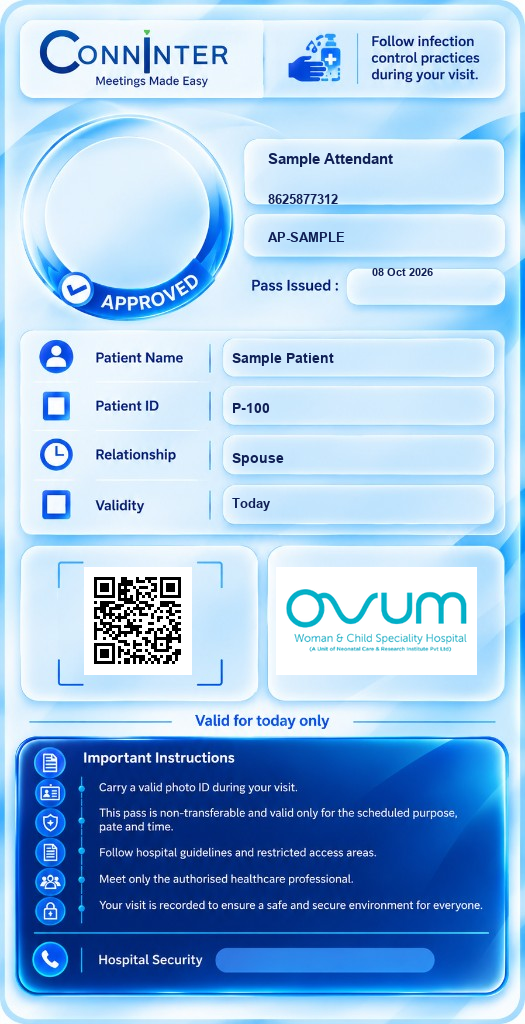
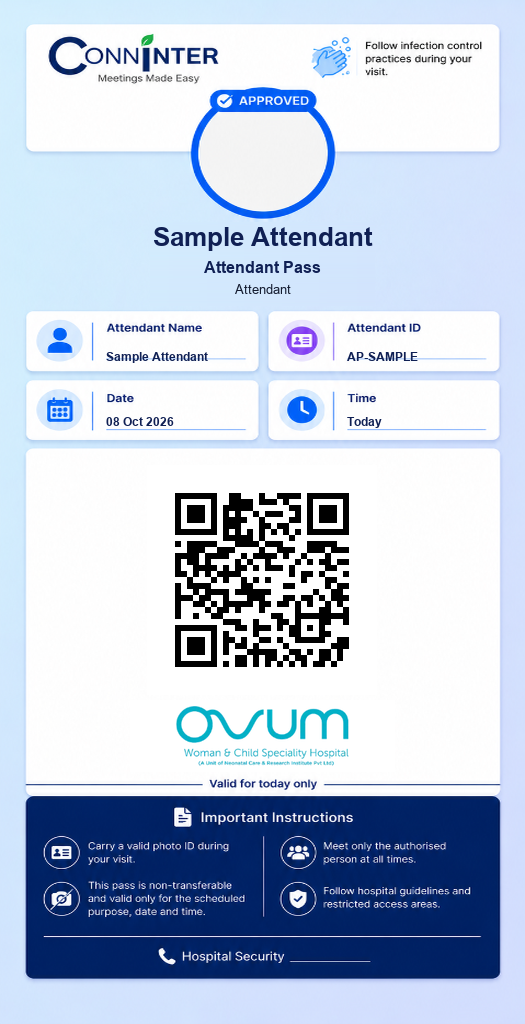
feat(passes): rebuild delivery and attendant passes on flat artwork
Match the new visitor-pass design: centred photo ring, name/title stack, box values on the printed underlines, large centred QR with the hospital logo below it. Centre-text now shrinks long names instead of spilling off the canvas; delivery bounds test updated for new layout.

Generated with [Devin](https://devin.ai)

diff --git a/python_backend/app/services/delivery_pass_image.py b/python_backend/app/services/delivery_pass_image.py
@@ -20,39 +20,34 @@ from app.services.meeting_pass_image import (
     _BLUE,
     _NAVY,
     _BLACK,
+    _center_text,
     _fit_text,
     _paste_circle,
+    _paste_logo,
     _qr_module_image,
     hospital_logo_bytes,
-    paste_aligned_qr_and_logo,
+    paste_crisp_qr,
 )
 
 BLANK_PASS_PATH = Path(__file__).resolve().parents[1] / "assets" / "delivery_pass_blank.png"
 
-# Coordinates match delivery_pass_blank.png at 525x1024.
-# The approved ring's open center. Kept clear of the APPROVED badge.
-_PHOTO_CENTER = (132, 242)
-_PHOTO_RADIUS = 76
-_NAME_X = 272
-_NAME_WIDTH = 210
-# The blue rule is at y=258. The first white bar is just under it (y=268-306)
-# and the second white bar is y=312-348.
-_NAME_Y = 278
-_ROLE_Y = 314
-_COMPANY_Y = 326
-_PASS_Y = 337
-# Values sit under each printed underline and stop before the card edge.
-_LEFT_VALUE = (100, 142)
-_RIGHT_VALUE = (352, 140)
-_VALUE_ROWS = (400, 480, 561)
-# Open band between the Date/Time cards (bottom ~y=586) and the
-# "Valid for today only" line (~y=700). The QR is centered under the left column.
-_QR_TOP = 589
-_QR_SIZE = 108
-_QR_LEFT = 140 - _QR_SIZE // 2
-_DIVIDER_X = 262
-_LOGO_RIGHT = 494
-_LABEL_BLUE = (0, 102, 204)
+# Coordinates match delivery_pass_blank.png at 525x1024 (flat centred design).
+_PHOTO_CENTER = (263, 152)
+_PHOTO_RADIUS = 56
+# Centred identity lines under the photo ring.
+_NAME_Y = 222
+_ROLE_Y = 254
+_COMPANY_Y = 276
+_PASS_Y = 296
+# Values sit above the printed underlines inside each box (lines at y=371/426/486).
+_LEFT_VALUE = (104, 142)
+_RIGHT_VALUE = (344, 142)
+_VALUE_ROWS = (350, 405, 465)
+# Open white band (~y506-783) above "Valid for today only".
+# Big QR centred first; the hospital logo sits below it.
+_QR_TOP = 512
+_QR_SIZE = 230
+_LOGO_BOX = (130, 747, 395, 782)
 _SIZE_ABBREV = {
     "SMALL": "S",
     "MEDIUM": "M",
@@ -77,15 +72,6 @@ class DeliveryPassContent:
     qr_png: bytes | None = None
     photo_png: bytes | None = None
     logo_png: bytes | None = None
-
-
-def _cover_label(base: Image.Image, box: tuple[int, int, int, int]) -> None:
-    """Hide a printed visitor label so the delivery label can replace it."""
-    sample = base.getpixel((box[2] + 8, box[1] + 4))
-    if not isinstance(sample, tuple):
-        return
-    fill = sample[:3]
-    ImageDraw.Draw(base).rectangle(box, fill=fill)
 
 
 def item_line(delivery, items: list) -> str:
@@ -297,53 +283,33 @@ def render_delivery_pass(content: DeliveryPassContent, *, scale: int = 1) -> byt
             pass
 
     draw = ImageDraw.Draw(base)
-    # The artwork says Visiting / Department. This pass is a delivery.
-    _cover_label(base, (92, 366, 210, 392))
-    _cover_label(base, (348, 366, 460, 392))
-    _fit_text(draw, (100, 372), "Delivery To", max_width=140, size=12, fill=_LABEL_BLUE, bold=True)
-    _fit_text(draw, (352, 372), "PO No.", max_width=100, size=12, fill=_LABEL_BLUE, bold=True)
 
-    _fit_text(draw, (_NAME_X, _NAME_Y), content.driver_name, max_width=_NAME_WIDTH, size=15, fill=_NAVY)
-    _fit_text(draw, (_NAME_X, _ROLE_Y), "Delivery Partner", max_width=_NAME_WIDTH, size=11, fill=_BLACK)
-    _fit_text(draw, (_NAME_X, _COMPANY_Y), content.company_name, max_width=_NAME_WIDTH, size=10, fill=_BLUE)
-    _fit_text(draw, (_NAME_X, _PASS_Y), "Delivery Pass", max_width=_NAME_WIDTH, size=10, fill=_BLUE)
+    _center_text(draw, _NAME_Y, content.driver_name, size=26, fill=_NAVY)
+    _center_text(draw, _ROLE_Y, "Delivery Partner", size=16, fill=_NAVY)
+    _center_text(draw, _COMPANY_Y, content.company_name, size=13, fill=_BLACK, bold=False)
+    _center_text(draw, _PASS_Y, "Delivery Pass", size=13, fill=_BLUE, bold=False)
 
     left_x, left_width = _LEFT_VALUE
     right_x, right_width = _RIGHT_VALUE
-    row_deliver, row_item, row_date = _VALUE_ROWS
-    _fit_text(draw, (left_x, row_deliver), content.deliver_to, max_width=left_width, size=13, fill=_NAVY)
-    _fit_text(draw, (right_x, row_deliver), content.po_number, max_width=right_width, size=13, fill=_NAVY)
+    row_partner, row_item, row_date = _VALUE_ROWS
+    _fit_text(draw, (left_x, row_partner), content.driver_name, max_width=left_width, size=12, fill=_NAVY)
+    _fit_text(draw, (right_x, row_partner), content.po_number, max_width=right_width, size=12, fill=_NAVY)
     _fit_text(draw, (left_x, row_item), content.item_text, max_width=left_width, size=12, fill=_NAVY)
     _fit_text(draw, (right_x, row_item), content.vehicle_text, max_width=right_width, size=12, fill=_NAVY)
     _fit_text(draw, (left_x, row_date), content.date_text, max_width=left_width, size=12, fill=_NAVY)
     _fit_text(draw, (right_x, row_date), content.time_text, max_width=right_width, size=12, fill=_NAVY)
 
-    logo_left = _DIVIDER_X + 18
-    logo_right = _LOGO_RIGHT
     if content.logo_png or content.qr_png:
         try:
-            paste_aligned_qr_and_logo(
-                base,
-                qr_png=content.qr_png,
-                logo_png=content.logo_png,
-                qr_left=_QR_LEFT,
-                row_top=_QR_TOP,
-                side=_QR_SIZE,
-                logo_left=logo_left,
-                logo_right=logo_right,
-            )
+            if content.qr_png:
+                qr_left = (_BASE_WIDTH - _QR_SIZE) // 2
+                paste_crisp_qr(base, content.qr_png, qr_left, _QR_TOP, _QR_SIZE)
+            if content.logo_png:
+                _paste_logo(base, content.logo_png, _LOGO_BOX, plate=True, pad=2)
         except Exception:
             pass
     elif content.hospital_name:
-        _fit_text(
-            draw,
-            (logo_left, _QR_TOP + 28),
-            content.hospital_name,
-            max_width=logo_right - logo_left - 8,
-            size=13,
-            fill=_NAVY,
-            bold=True,
-        )
+        _center_text(draw, _LOGO_BOX[1] + 6, content.hospital_name, size=13, fill=_NAVY)
 
     output_scale = scale if scale > 1 else 1
     if output_scale > 1:
@@ -354,16 +320,23 @@ def render_delivery_pass(content: DeliveryPassContent, *, scale: int = 1) -> byt
         # Re-paint QR + logo after enlarge so modules stay sharp and stay aligned.
         if content.logo_png or content.qr_png:
             try:
-                paste_aligned_qr_and_logo(
-                    base,
-                    qr_png=content.qr_png,
-                    logo_png=content.logo_png,
-                    qr_left=_QR_LEFT * output_scale,
-                    row_top=_QR_TOP * output_scale,
-                    side=_QR_SIZE * output_scale,
-                    logo_left=logo_left * output_scale,
-                    logo_right=logo_right * output_scale,
-                )
+                if content.qr_png:
+                    qr_left = (base.width - _QR_SIZE * output_scale) // 2
+                    paste_crisp_qr(
+                        base,
+                        content.qr_png,
+                        qr_left,
+                        _QR_TOP * output_scale,
+                        _QR_SIZE * output_scale,
+                    )
+                if content.logo_png:
+                    _paste_logo(
+                        base,
+                        content.logo_png,
+                        tuple(v * output_scale for v in _LOGO_BOX),
+                        plate=True,
+                        pad=2 * output_scale,
+                    )
             except Exception:
                 pass
 

diff --git a/python_backend/app/services/attendant_pass_image.py b/python_backend/app/services/attendant_pass_image.py
@@ -9,43 +9,40 @@ from pathlib import Path
 from PIL import Image, ImageDraw
 
 from app.services.meeting_pass_image import (
+    _BLUE,
+    _NAVY as _MEETING_NAVY,
+    _BLACK,
+    _center_text,
     _fit_text,
     _paste_circle,
-    paste_aligned_qr_and_logo,
+    _paste_logo,
+    paste_crisp_qr,
 )
 
 BLANK_PASS_PATH = Path(__file__).resolve().parents[1] / "assets" / "attendant_pass_blank.png"
 
-# Coordinates match attendant_pass_blank.png at 525x1024.
+# Coordinates match attendant_pass_blank.png at 525x1024 (flat centred design).
 _BASE_WIDTH = 525
 _BASE_HEIGHT = 1024
-_PHOTO_CENTER = (128, 198)
-_PHOTO_RADIUS = 62
-_BAR_X = 268
-_BAR_WIDTH = 214
-_BAR_YS = (150, 192, 230)
-_ISSUED_X = 372
-_ISSUED_Y = 266
-_ISSUED_WIDTH = 112
-_VALUE_X = 232
-_VALUE_WIDTH = 252
-_VALUE_YS = (350, 400, 450, 496)
-# Outer corner-bracket frame on the blank artwork.
-# Inner edge of the printed corner brackets; both panels span y 545-697.
-_QR_FRAME = (57, 560, 219, 682)
-_QR_SIZE = 108
-# Same top/height as the QR square, centred in the right panel (x 261-492).
-_LOGO_LEFT = 276
-_LOGO_RIGHT = 477
-_PHONE_X = 262
-_PHONE_Y = 952
-_PHONE_WIDTH = 210
-_NAVY = (16, 32, 84)
-
-
-def _centered_origin(frame: tuple[int, int, int, int], size: int) -> tuple[int, int]:
-    left, top, right, bottom = frame
-    return left + (right - left - size) // 2, top + (bottom - top - size) // 2
+_PHOTO_CENTER = (263, 152)
+_PHOTO_RADIUS = 56
+# Centred identity lines under the photo ring.
+_NAME_Y = 222
+_TITLE_Y = 258
+_ROLE_Y = 282
+# Values sit above the printed underlines inside each box.
+_LEFT_VALUE = (106, 139)
+_RIGHT_VALUE = (347, 138)
+_ROW1_Y = 350
+_ROW2_Y = 415
+# Open white band (~y450-783) above "Valid for today only".
+_QR_TOP = 465
+_QR_SIZE = 230
+_LOGO_BOX = (130, 700, 395, 772)
+_PHONE_X = 330
+_PHONE_Y = 950
+_PHONE_WIDTH = 130
+_NAVY = _MEETING_NAVY
 
 
 @dataclass
@@ -80,26 +77,28 @@ def render_attendant_pass(content: AttendantPassContent, *, scale: int = 1) -> b
             pass
 
     draw = ImageDraw.Draw(base)
-    _fit_text(draw, (_BAR_X, _BAR_YS[0]), content.attendant_name, max_width=_BAR_WIDTH, size=15, fill=_NAVY)
-    _fit_text(draw, (_BAR_X, _BAR_YS[1]), content.attendant_phone, max_width=_BAR_WIDTH, size=13, fill=_NAVY)
-    _fit_text(draw, (_BAR_X, _BAR_YS[2]), content.pass_number, max_width=_BAR_WIDTH, size=13, fill=_NAVY)
-    _fit_text(draw, (_ISSUED_X, _ISSUED_Y), content.issued_on, max_width=_ISSUED_WIDTH, size=11, fill=_NAVY)
-    _fit_text(draw, (_VALUE_X, _VALUE_YS[0]), content.patient_name, max_width=_VALUE_WIDTH, size=14, fill=_NAVY)
-    _fit_text(draw, (_VALUE_X, _VALUE_YS[1]), content.patient_id, max_width=_VALUE_WIDTH, size=14, fill=_NAVY)
-    _fit_text(draw, (_VALUE_X, _VALUE_YS[2]), content.relationship, max_width=_VALUE_WIDTH, size=14, fill=_NAVY)
-    _fit_text(draw, (_VALUE_X, _VALUE_YS[3]), content.validity, max_width=_VALUE_WIDTH, size=13, fill=_NAVY)
 
-    qr_left, qr_top = _centered_origin(_QR_FRAME, _QR_SIZE)
+    _center_text(draw, _NAME_Y, content.attendant_name, size=26, fill=_NAVY)
+    _center_text(draw, _TITLE_Y, "Attendant Pass", size=16, fill=_NAVY)
+    _center_text(draw, _ROLE_Y, "Attendant", size=13, fill=_BLACK, bold=False)
 
-    if not content.logo_png and content.hospital_name:
-        _fit_text(
-            draw,
-            (_LOGO_LEFT, qr_top + 48),
-            content.hospital_name,
-            max_width=_LOGO_RIGHT - _LOGO_LEFT - 8,
-            size=14,
-            fill=_NAVY,
-        )
+    left_x, left_width = _LEFT_VALUE
+    right_x, right_width = _RIGHT_VALUE
+    _fit_text(draw, (left_x, _ROW1_Y), content.attendant_name, max_width=left_width, size=12, fill=_NAVY)
+    _fit_text(draw, (right_x, _ROW1_Y), content.pass_number, max_width=right_width, size=12, fill=_NAVY)
+    _fit_text(draw, (left_x, _ROW2_Y), content.issued_on, max_width=left_width, size=12, fill=_NAVY)
+    _fit_text(draw, (right_x, _ROW2_Y), content.validity, max_width=right_width, size=12, fill=_NAVY)
+
+    try:
+        if content.qr_png:
+            qr_left = (_BASE_WIDTH - _QR_SIZE) // 2
+            paste_crisp_qr(base, content.qr_png, qr_left, _QR_TOP, _QR_SIZE)
+        if content.logo_png:
+            _paste_logo(base, content.logo_png, _LOGO_BOX, plate=True, pad=6)
+        elif content.hospital_name:
+            _center_text(draw, _LOGO_BOX[1] + 14, content.hospital_name, size=14, fill=_NAVY)
+    except Exception:
+        pass
 
     if content.security_phone:
         _fit_text(
@@ -117,20 +116,26 @@ def render_attendant_pass(content: AttendantPassContent, *, scale: int = 1) -> b
             (base.width * output_scale, base.height * output_scale),
             Image.Resampling.LANCZOS,
         )
-
-    try:
-        paste_aligned_qr_and_logo(
-            base,
-            qr_png=content.qr_png,
-            logo_png=content.logo_png,
-            qr_left=qr_left * output_scale,
-            row_top=qr_top * output_scale,
-            side=_QR_SIZE * output_scale,
-            logo_left=_LOGO_LEFT * output_scale,
-            logo_right=_LOGO_RIGHT * output_scale,
-        )
-    except Exception:
-        pass
+        try:
+            if content.qr_png:
+                qr_left = (base.width - _QR_SIZE * output_scale) // 2
+                paste_crisp_qr(
+                    base,
+                    content.qr_png,
+                    qr_left,
+                    _QR_TOP * output_scale,
+                    _QR_SIZE * output_scale,
+                )
+            if content.logo_png:
+                _paste_logo(
+                    base,
+                    content.logo_png,
+                    tuple(v * output_scale for v in _LOGO_BOX),
+                    plate=True,
+                    pad=6 * output_scale,
+                )
+        except Exception:
+            pass
 
     flat = base.convert("RGB")
     buffer = io.BytesIO()

diff --git a/python_backend/app/services/meeting_pass_image.py b/python_backend/app/services/meeting_pass_image.py
@@ -20,7 +20,7 @@ HOSPITAL_LOGO_DIR = ASSETS_DIR / "hospital-logos"
 # Coordinates match meeting_pass_blank.png at 525x1024 (flat centred design).
 _BASE_WIDTH = 525
 _BASE_HEIGHT = 1024
-_PHOTO_CENTER = (263, 167)
+_PHOTO_CENTER = (263, 152)
 _PHOTO_RADIUS = 56
 # Centred identity lines under the photo ring.
 _NAME_Y = 222
@@ -135,12 +135,23 @@ def _center_text(
     size: int,
     fill: tuple[int, int, int],
     bold: bool = True,
+    max_width: int | None = None,
 ) -> None:
     cleaned = " ".join((text or "").split())
     if not cleaned:
         return
+    cap = max_width or (_BASE_WIDTH - 60)
     font = _load_font(size, bold=bold)
     width = draw.textlength(cleaned, font=font)
+    while width > cap and size > 9:
+        size -= 1
+        font = _load_font(size, bold=bold)
+        width = draw.textlength(cleaned, font=font)
+    while cleaned and draw.textlength(cleaned + "\u2026", font=font) > cap:
+        cleaned = cleaned[:-1]
+    if len(cleaned) < len(" ".join((text or "").split())):
+        cleaned += "\u2026"
+        width = draw.textlength(cleaned, font=font)
     draw.text(((_BASE_WIDTH - width) / 2, y), cleaned, font=font, fill=fill)
 
 

diff --git a/python_backend/tests/test_delivery_pass_image.py b/python_backend/tests/test_delivery_pass_image.py
@@ -93,15 +93,14 @@ def test_long_values_stay_inside_the_printed_boxes() -> None:
     assert rendered.size == blank.size
 
     allowed = [
-        (260, 268, 508, 352),
-        (88, 362, 250, 420),
-        (340, 362, 508, 420),
-        (94, 474, 250, 500),
-        (346, 474, 508, 500),
-        (94, 554, 250, 582),
-        (346, 554, 508, 582),
-        (86, 589, 194, 697),
-        (280, 589, 494, 697),
+        (20, 215, 505, 315),    # centred identity lines
+        (100, 348, 255, 382),   # row1 left value
+        (340, 348, 490, 382),   # row1 right value
+        (100, 403, 255, 437),   # row2 left value
+        (340, 403, 490, 437),   # row2 right value
+        (100, 463, 255, 497),   # row3 left value
+        (340, 463, 490, 497),   # row3 right value
+        (110, 505, 415, 790),   # QR plate + logo plate
     ]
     blank_px = blank.load()
     rendered_px = rendered.load()
